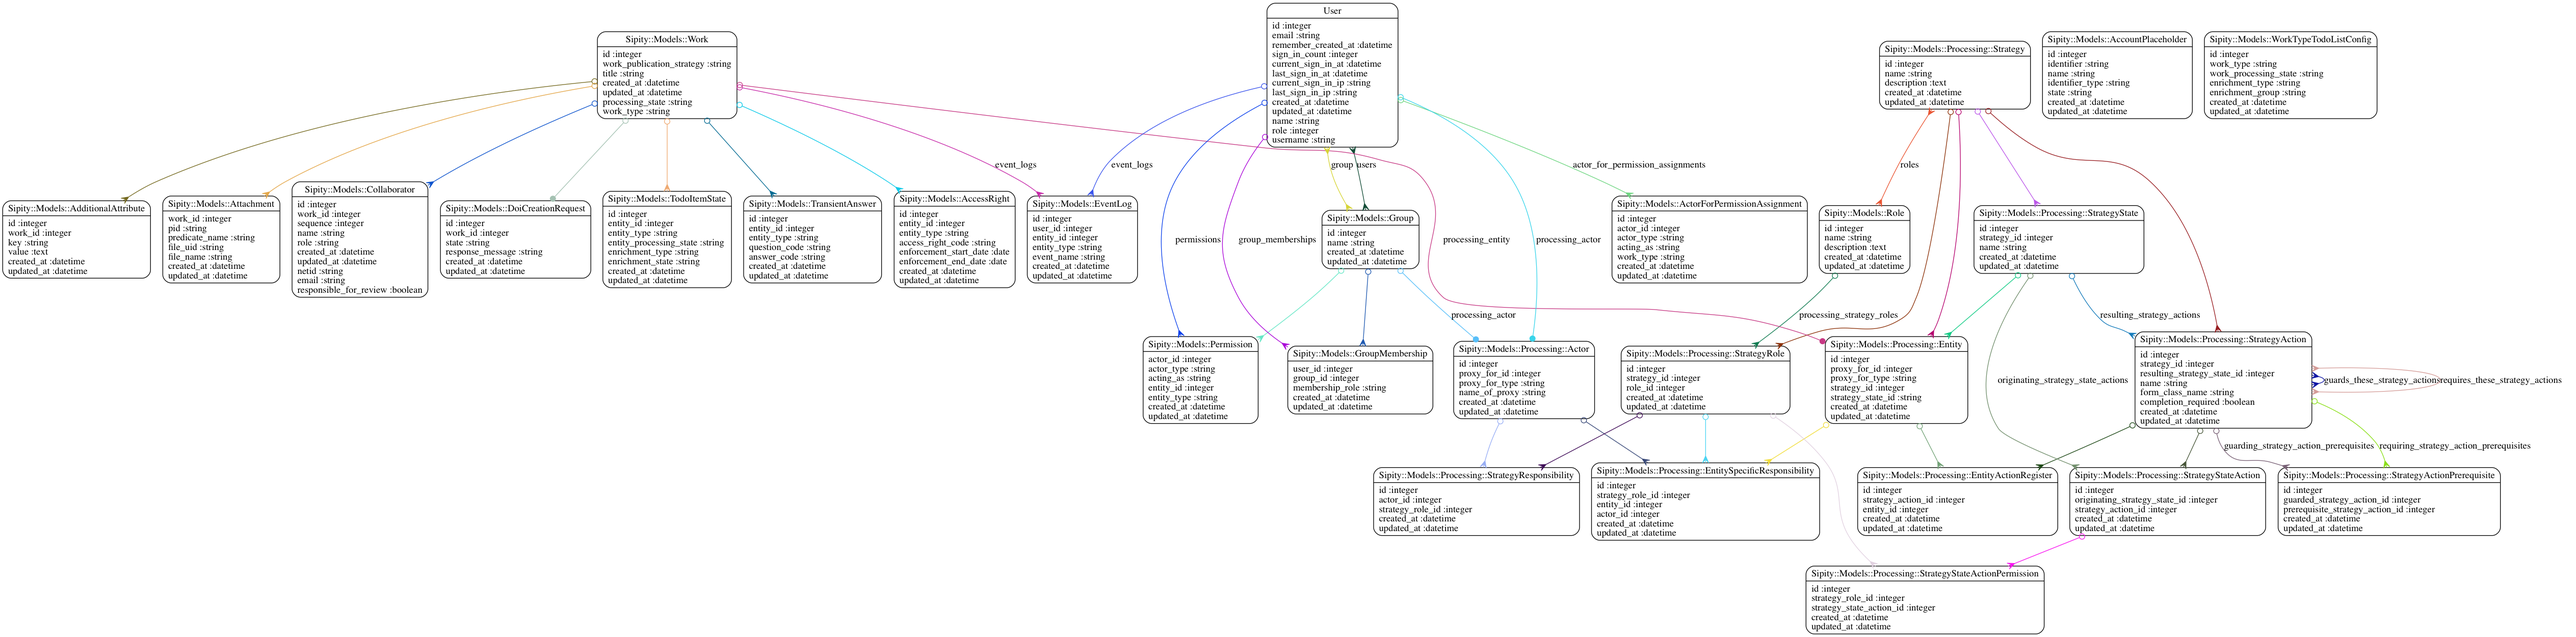
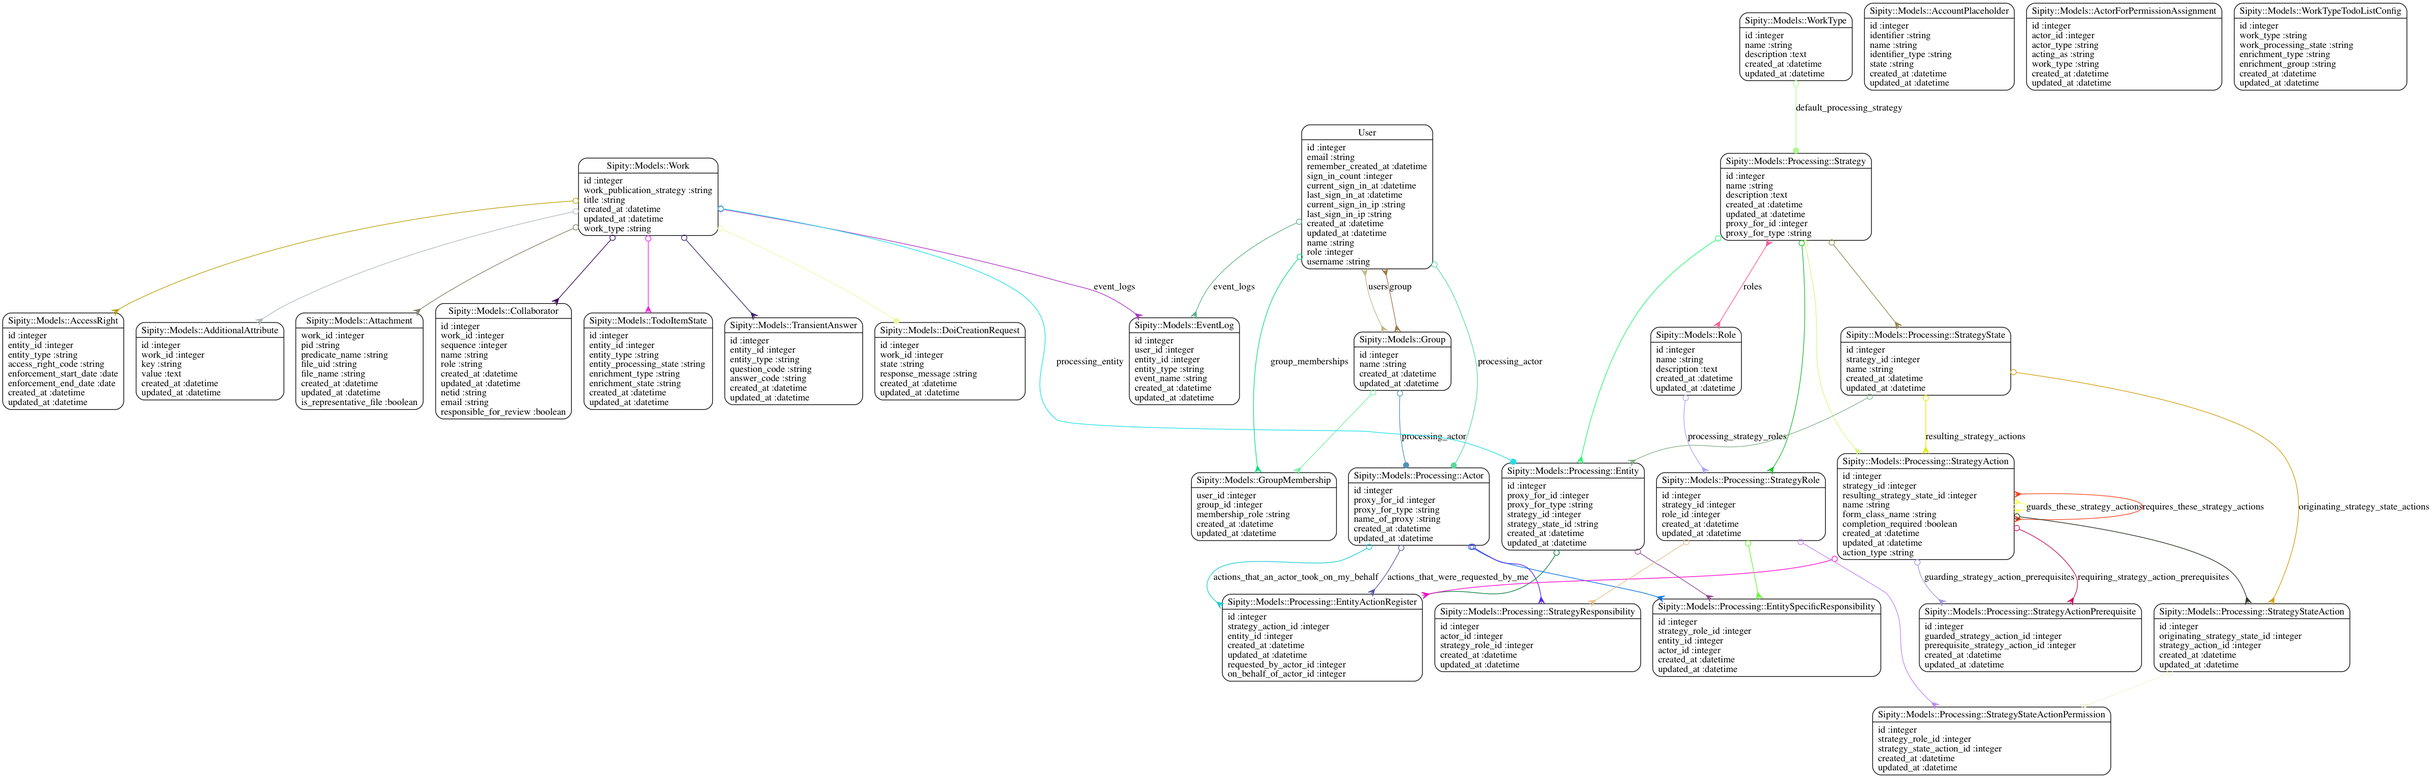
Adding additional columns to Action Registry
Given that there is the case for acting on someone's behalf, we need
to capture those actions both who requested it and on behalf of who.

Changed region(s): [[0.0, 0.0, 0.9992, 0.9976], [0.9055, 0.5923, 0.9992, 0.6547], [0.6245, 0.2494, 0.6557, 0.2806]]

diff --git a/db/schema.rb b/db/schema.rb
@@ -11,7 +11,7 @@
 #
 # It's strongly recommended that you check this file into your version control system.
 
-ActiveRecord::Schema.define(version: 20150219203525) do
+ActiveRecord::Schema.define(version: 20150220152602) do
 
   create_table "sipity_access_rights", force: :cascade do |t|
     t.integer  "entity_id",              null: false
@@ -171,12 +171,16 @@ ActiveRecord::Schema.define(version: 20150219203525) do
   add_index "sipity_processing_entities", ["strategy_state_id"], name: "index_sipity_processing_entities_on_strategy_state_id"
 
   create_table "sipity_processing_entity_action_registers", force: :cascade do |t|
-    t.integer  "strategy_action_id", null: false
-    t.integer  "entity_id",          null: false
-    t.datetime "created_at",         null: false
-    t.datetime "updated_at",         null: false
+    t.integer  "strategy_action_id",    null: false
+    t.integer  "entity_id",             null: false
+    t.datetime "created_at",            null: false
+    t.datetime "updated_at",            null: false
+    t.integer  "requested_by_actor_id", null: false
+    t.integer  "on_behalf_of_actor_id", null: false
   end
 
+  add_index "sipity_processing_entity_action_registers", ["strategy_action_id", "entity_id", "on_behalf_of_actor_id"], name: "sipity_processing_entity_action_registers_on_behalf"
+  add_index "sipity_processing_entity_action_registers", ["strategy_action_id", "entity_id", "requested_by_actor_id"], name: "sipity_processing_entity_action_registers_requested"
   add_index "sipity_processing_entity_action_registers", ["strategy_action_id", "entity_id"], name: "sipity_processing_entity_action_registers_aggregate"
 
   create_table "sipity_processing_entity_specific_responsibilities", force: :cascade do |t|

diff --git a/db/migrate/20150220152602_adding_requested_by_and_on_behalf_of_to_entity_action_register.rb b/db/migrate/20150220152602_adding_requested_by_and_on_behalf_of_to_entity_action_register.rb
@@ -1,0 +1,13 @@
+class AddingRequestedByAndOnBehalfOfToEntityActionRegister < ActiveRecord::Migration
+  def change
+    add_column :sipity_processing_entity_action_registers, :requested_by_actor_id, :integer
+    add_column :sipity_processing_entity_action_registers, :on_behalf_of_actor_id, :integer
+
+
+    add_index "sipity_processing_entity_action_registers", ["strategy_action_id", "entity_id", "on_behalf_of_actor_id"], name: "sipity_processing_entity_action_registers_on_behalf"
+    add_index "sipity_processing_entity_action_registers", ["strategy_action_id", "entity_id", "requested_by_actor_id"], name: "sipity_processing_entity_action_registers_requested"
+
+    change_column_null :sipity_processing_entity_action_registers, :requested_by_actor_id, false
+    change_column_null :sipity_processing_entity_action_registers, :on_behalf_of_actor_id, false
+  end
+end
